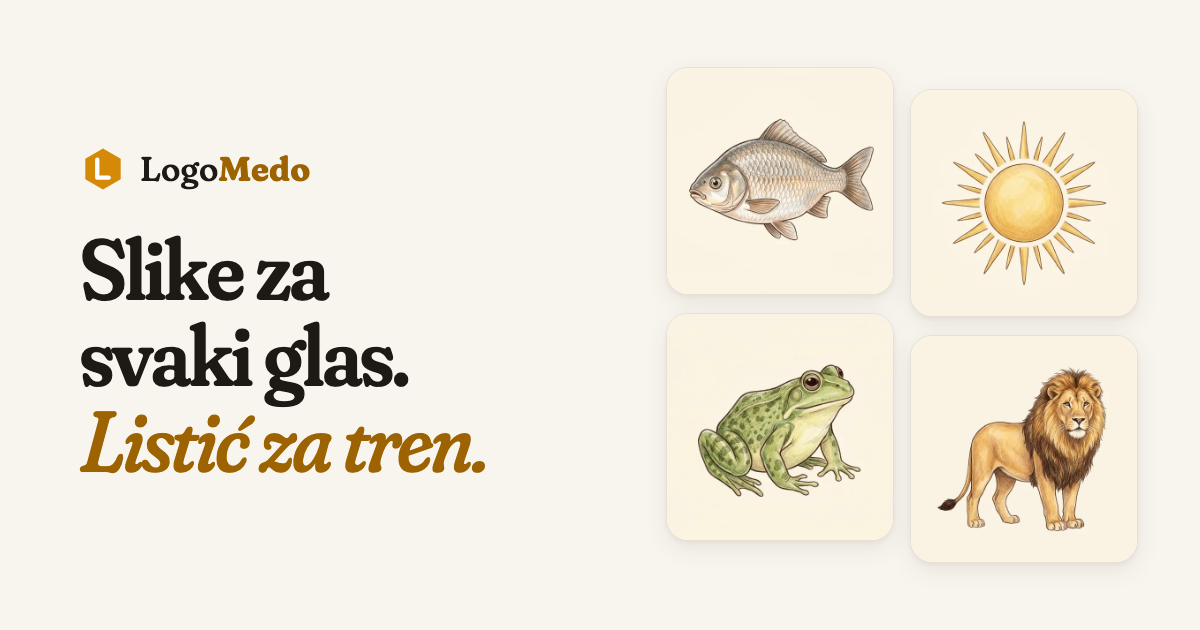
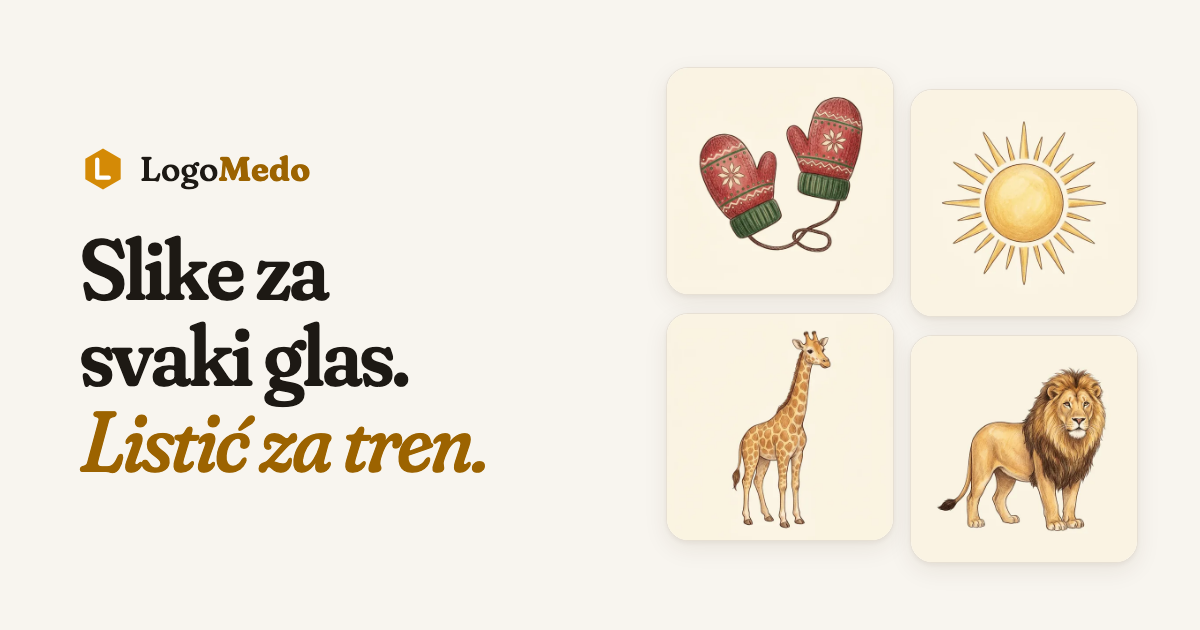
feat(landing): žirafa i rukavice umjesto žabe i ribe, rime slon–balon i crkva–mrkva (odluka 800)
Hero, N-4 i OG slika: rukavice, sunce, žirafa, lav; „Dva stila” s rukavicama.
Zadatak „Rima” za snimke s fiksnim rimama (RIME, --rime), nove V-4 i V-20.

Claude-Session: https://claude.ai/code/session_015y6PHnVoXKv6mj4JuCF3KD

Changed region(s): [[0.555, 0.1508, 0.74, 0.4222], [0.555, 0.5127, 0.7092, 0.8444]]

diff --git a/scripts/landing-snimke.ts b/scripts/landing-snimke.ts
@@ -4,6 +4,7 @@
 //   node scripts/landing-snimke.ts                 # sve snimke
 //   node scripts/landing-snimke.ts V-2 V-7         # samo te
 //   node scripts/landing-snimke.ts --pripremi      # jednom: probni zadaci, bilježnice i slika za pregled (vidi dolje)
+//   node scripts/landing-snimke.ts --rime          # samo upiše fiksne rime (RIME) u postojeći zadatak „Rima”
 //
 // Prijava: kolačić sesije iz env LOGOMEDO_KOLACIC ili ~/.cache/logomedo-staging/kolacic (samo vrijednost,
 // `scripts/staging-sesija.sh <email> | head -1 | cut -d= -f2`). Probni podaci (ID-jevi, slugovi) su u
@@ -418,6 +419,27 @@ async function spremi(page: Page, id: number, izmjene: Partial<PodaciEditora["za
   }, { id, tijelo });
 }
 
+/**
+ * Rime u zadatku „Rima” (Zimska bilježnica): fiksne, ne nasumične iz predloška (landing odluka 800). V-4 snima treći
+ * ekran (SLON – BALON), V-20 četvrti (CRKVA – MRKVA). Redak: zadana, ponuđene tri, indeks točne.
+ */
+const RIME: [string, [string, string, string], number][] = [
+  ["kapa", ["šapa", "miš", "brokula"], 0],
+  ["čaj", ["frula", "muha", "zmaj"], 2],
+  ["slon", ["kuća", "balon", "žlica"], 1],
+  ["crkva", ["kruška", "mačka", "mrkva"], 2],
+];
+
+async function postaviRime(page: Page, id: number) {
+  const { rijeci } = await editor(page, id);
+  const rid = (r: string) => {
+    const x = rijeci.find((w) => w.rijec.toLocaleLowerCase("hr") === r && w.slika);
+    if (!x) throw new Error(`Rima: nema riječi „${r}” sa slikom`);
+    return x.id;
+  };
+  await spremi(page, id, { sadrzaj: { odnos: "rima", stavke: RIME.map(([z, p, t]) => ({ zadana: rid(z), ponudeno: p.map(rid), tocno: t })) } });
+}
+
 const nasumicno = () => Math.random().toString(36).slice(2, 8);
 
 async function pripremi() {
@@ -444,6 +466,7 @@ async function pripremi() {
     await spremi(page, z.slogovi, { naslov: "Prebrajanje slogova" });
     z.rima = await noviZadatak(page, [["vrsta", "odabir"], ["podrucje", ""], ["nacin", "rima"], ["stavki", "4"]]);
     await spremi(page, z.rima, { naslov: "Rima" });
+    await postaviRime(page, z.rima);
     z.uljez = await noviZadatak(page, [["vrsta", "uljez"], ["podrucje", ""], ["nacin", "pocetni_glas"], ["stavki", "4"]]);
     await spremi(page, z.uljez, { naslov: "Izbaci uljeza" });
     z.istiGlas = await noviZadatak(page, [["vrsta", "odabir"], ["podrucje", ""], ["nacin", "pocetni_glas"], ["stavki", "4"]]);
@@ -510,5 +533,20 @@ async function pripremi() {
   }
 }
 
+/** --rime: samo upiše RIME u postojeći probni zadatak (bez novog --pripremi). */
+async function samoRime() {
+  const p: Probni = JSON.parse(readFileSync(PROBNI, "utf8"));
+  const b = await chromium.launch({ channel: "chrome" });
+  try {
+    const ctx = await kontekst(b, "desktop", "svijetla");
+    await postaviRime(await ctx.newPage(), p.zadaci.rima);
+    await ctx.unrouteAll({ behavior: "ignoreErrors" });
+    console.log("Rime upisane u zadatak „Rima”.");
+  } finally {
+    await b.close();
+  }
+}
+
 if (process.argv.includes("--pripremi")) await pripremi();
+else if (process.argv.includes("--rime")) await samoRime();
 else await snimaj(process.argv.slice(2).filter((a) => /^V-\d+$/.test(a)));

diff --git a/src/landing/konstante.ts b/src/landing/konstante.ts
@@ -138,12 +138,12 @@ export const OG = {
 
 /** V-1 (sadrzaj.md odjeljak 4): četiri ilustracije iz kataloga, public/landing/<ime>-{256,512}.webp. */
 export const ILUSTRACIJE_V1 = [
-  { ime: "riba", glas: "R" },
+  { ime: "rukavice", glas: "R" },
   { ime: "sunce", glas: "S" },
-  { ime: "zaba", glas: "Ž" },
+  { ime: "zirafa", glas: "Ž" },
   { ime: "lav", glas: "L" },
 ] as const;
-export const ALT_V1 = "Ilustracije iz kataloga: riba, sunce, žaba i lav.";
+export const ALT_V1 = "Ilustracije iz kataloga: rukavice, sunce, žirafa i lav.";
 
 /** Redoslijed glasova iz kataloga (N-4): 25 suglasnika, pa 5 samoglasnika. */
 export const SUGLASNICI = ["C", "S", "Z", "Č", "Š", "Ž", "L", "R", "K", "Đ", "DŽ", "G", "M", "B", "P", "V", "F", "T", "D", "N", "J", "LJ", "NJ", "Ć", "H"];
@@ -203,6 +203,6 @@ export function snimkaDatoteke(v: SnimkaId) {
 export const ILUSTRACIJA_V25 = { src: "/landing/sova-512.webp", alt: "Ilustracija sove iz kataloga." } as const;
 
 export const PAROVI_STILOVA = [
-  { ime: "riba", alt: "Riba u dva stila: ilustracija u boji i crno-bijela bojanka." },
+  { ime: "rukavice", alt: "Rukavice u dva stila: ilustracija u boji i crno-bijela bojanka." },
   { ime: "sunce", alt: "Sunce u dva stila: ilustracija u boji i bojanka." },
 ] as const;

diff --git a/docs/landing/sadrzaj.md b/docs/landing/sadrzaj.md
@@ -95,7 +95,7 @@ Ako S6 ne odluči ime tvrtke ili kontakt, taj element se izostavlja (ne ostaje p
 
 Prijedlog: jedna zajednička `public/landing/og.png`, **1200 × 630, PNG** (WebP neki pregledi linkova ne
 prikazuju), svijetla pozadina, lijevo naslov „Slike za svaki glas. Listić za tren.”, desno četiri ilustracije
-RIBA, SUNCE, ŽABA, LAV [V-27]. Svaka stranica ima `og:title` = `<title>`, `og:description` = meta description,
+RUKAVICE, SUNCE, ŽIRAFA, LAV [V-27]. Svaka stranica ima `og:title` = `<title>`, `og:description` = meta description,
 `og:locale` = `hr_HR`.
 
 ---
@@ -145,7 +145,7 @@ RIBA, SUNCE, ŽABA, LAV [V-27]. Svaka stranica ima `og:title` = `<title>`, `og:d
   C S Z Č Š Ž L R K Đ DŽ G M B P V F T D N J LJ NJ Ć H · A E I O U
   (samoglasnici kao zasebna skupina iza razmaka; pločice nisu linkovi jer je katalog iza prijave [I-KAT-1])
 - **Ispod:** Riječi možete složiti i po mjestu tvorbe, načinu tvorbe ili zvučnosti. [I-KAT-1]
-- **Vizual:** pločice; uz četiri pločice (R, S, Ž, L) male ilustracije RIBA, SUNCE, ŽABA, LAV [V-1] (ponovno,
+- **Vizual:** pločice; uz četiri pločice (R, S, Ž, L) male ilustracije RUKAVICE, SUNCE, ŽIRAFA, LAV [V-1] (ponovno,
   256 px)
 
 #### N-5 Uskoro
@@ -500,13 +500,13 @@ za landing”). Prije objave pozicije glasova uz ilustracije potvrditi na strani
 
 | ID | Stranica / sekcija | Vrsta | Izvor | Veličine | Tema | Što se sakriva | Napomena | Alt |
 |---|---|---|---|---|---|---|---|---|
-| V-1 | `/` N-1 (i N-4 manje) | ilustracija ×4 | `ilustracija/riba/08b78c1b64f7ace1.png`, `ilustracija/sunce/7b78ac6aeb220458.png`, `ilustracija/zhaba/5bd3da7ad6c5afb4.png`, `ilustracija/lav/64116adb7fe6882d.png` | 512 i 256 px | obje (prozirni rub ili zaobljena kartica) | — | dekorativno u N-4 (`alt=""`), sadržajno u N-1 | „Ilustracije iz kataloga: riba, sunce, žaba i lav.” |
+| V-1 | `/` N-1 (i N-4 manje) | ilustracija ×4 | `ilustracija/rukavice/e672bb66109e13c6.png`, `ilustracija/sunce/7b78ac6aeb220458.png`, `ilustracija/zhirafa/a8f5bfc0c09f4158.png`, `ilustracija/lav/64116adb7fe6882d.png` | 512 i 256 px | obje (prozirni rub ili zaobljena kartica) | — | dekorativno u N-4 (`alt=""`), sadržajno u N-1 | „Ilustracije iz kataloga: rukavice, sunce, žirafa i lav.” (odluka 800) |
 | V-2 | `/` N-2 stup 1 | snimka | `/admin?stil=ilustracija` | 1280×800, 390×844 | svijetla | `.tko` | mape 30 glasova s brojevima | „Katalog u LogoMedu: mape glasova s brojem riječi u svakoj.” |
 | V-3 | `/` N-2 stup 2 | snimka | `/admin/zadaci/<id>` kartica Ispis (listić po glasu R, ilustracije) | 1280×800, 390×844 | svijetla | `.tko`, naslov zadatka ako sadrži ime | napraviti probni listić neutralnog naslova na stagingu (npr. „Glas R na početku”) | „Radni listić za glas R na početku riječi, spreman za ispis na A4.” |
 | V-4 | `/` N-2 stup 3 | snimka | `/b/<demo-staging>` vodoravno, tema Božić | 1280×800 | svijetla (igra ima svoju pozadinu) | slug u adresnoj traci (snimati bez trake), naslov bilježnice neutralan | treba demo bilježnica na stagingu [OP-4] | „Igra za dijete na tabletu: zadatak sa slikama i bor s lampicama.” |
 | V-6 | `/katalog` K-1 | snimka | `/admin?stil=ilustracija` | 1280×800, 390×844 | obje | `.tko` | može biti ista datoteka kao V-2 (mobilna varijanta za mobitel) | „Katalog s 30 mapa glasova, u stilu ilustracije.” |
 | V-7 | `/katalog` K-2 | snimka | `/admin/glas/r?stil=ilustracija` | 1280×800, 390×844 | svijetla | `.tko` | pozicije početak/sredina/kraj i skupine vidljive bez pomicanja | „Riječi s glasom R razvrstane po poziciji: početak, sredina, kraj i skupine.” |
-| V-8 | `/katalog` K-3 | ilustracija ×2 | `ilustracija/riba/08b78c1b64f7ace1.png` + `bojanka/riba/92c77de0ca525f8a.png` | 512 px | obje (bojanka na bijeloj kartici i u tamnoj temi) | — | par jedan uz drugi | „Riba u dva stila: ilustracija u boji i crno-bijela bojanka.” |
+| V-8 | `/katalog` K-3 | ilustracija ×2 | `ilustracija/rukavice/e672bb66109e13c6.png` + `bojanka/rukavice/f314aad932d163cb.png` | 512 px | obje (bojanka na bijeloj kartici i u tamnoj temi) | — | par jedan uz drugi | „Rukavice u dva stila: ilustracija u boji i crno-bijela bojanka.” (odluka 800) |
 | V-9 | `/katalog` K-3 | ilustracija ×2 | `ilustracija/sunce/7b78ac6aeb220458.png` + `bojanka/sunce/98eabebff5090197.png` | 512 px | obje | — | rezerva: `zhaba`, `lav` parovi iz inventure | „Sunce u dva stila: ilustracija u boji i bojanka.” |
 | V-10 | `/katalog` K-4 | snimka | `/admin/pregled` | 1280×800 | svijetla | `.tko`; ako se snima kao superadmin: `form.filtar-korisnika`, `#korisnik`, `#poslao`, poruka „X je već odobrio” | kao logoped vidi samo svoje slike: možda treba superadmin sesija uz sakrivanje | „Pregled nove slike s gumbima Odobri i Odbij.” |
 | V-11 | `/katalog` K-5 | snimka | `/admin/znakovi` | 1280×800, 390×844 | svijetla | `.tko` | prikaz b/d/p u Andiki | „Slova, brojke i simboli u fontu za početno čitanje.” |

diff --git a/docs/landing/decisions.md b/docs/landing/decisions.md
@@ -382,3 +382,13 @@ Lighthouse: `research/2026-11-19-lighthouse.md`. Staging `05029b71`, provjera 14
      staging je kopija produkcijske D1 sa stvarnim adresama, pa bez ključa ne šalje ništa. Neuspjeh slanja ne vraća
      odobrenje: admin vidi upozorenje i link kao rezervu. Resend je odabran umjesto Cloudflare Email Servicea (odluka
      710) jer je korisnik već imao ključ; obavijest superadminu o novom zahtjevu sad može ići istim putem.
+
+## Uređivanje sadržaja (od 800)
+
+800. **Ljepše slike i bolje rime u prvom planu** (korisnik, 19. 11. 2026.): u V-1 (hero naslovne, N-4, OG slika)
+     ŽIRAFA umjesto ŽABE i RUKAVICE umjesto RIBE (glasovi Ž i R ostaju); u „Dva stila” (V-8) par RUKAVICE umjesto RIBE.
+     Ključevi: `ilustracija/zhirafa/a8f5bfc0c09f4158.png`, `ilustracija/rukavice/e672bb66109e13c6.png`,
+     `bojanka/rukavice/f314aad932d163cb.png`; stare `riba-*`/`zaba-*` webp maknute. Zadatak „Rima” za snimke (Zimska
+     bilježnica) više nije nasumičan iz predloška (bile su FRULA–BROKULA i SLOVA–SOVA): `RIME` u
+     `scripts/landing-snimke.ts` (KAPA–ŠAPA, ČAJ–ZMAJ, SLON–BALON, CRKVA–MRKVA), `--rime` ih upiše u postojeći
+     probni zadatak. V-4 tako pokazuje SLON–BALON, V-20 CRKVA–MRKVA. `sadrzaj.md` i dalje vrijedi i usklađen je.
